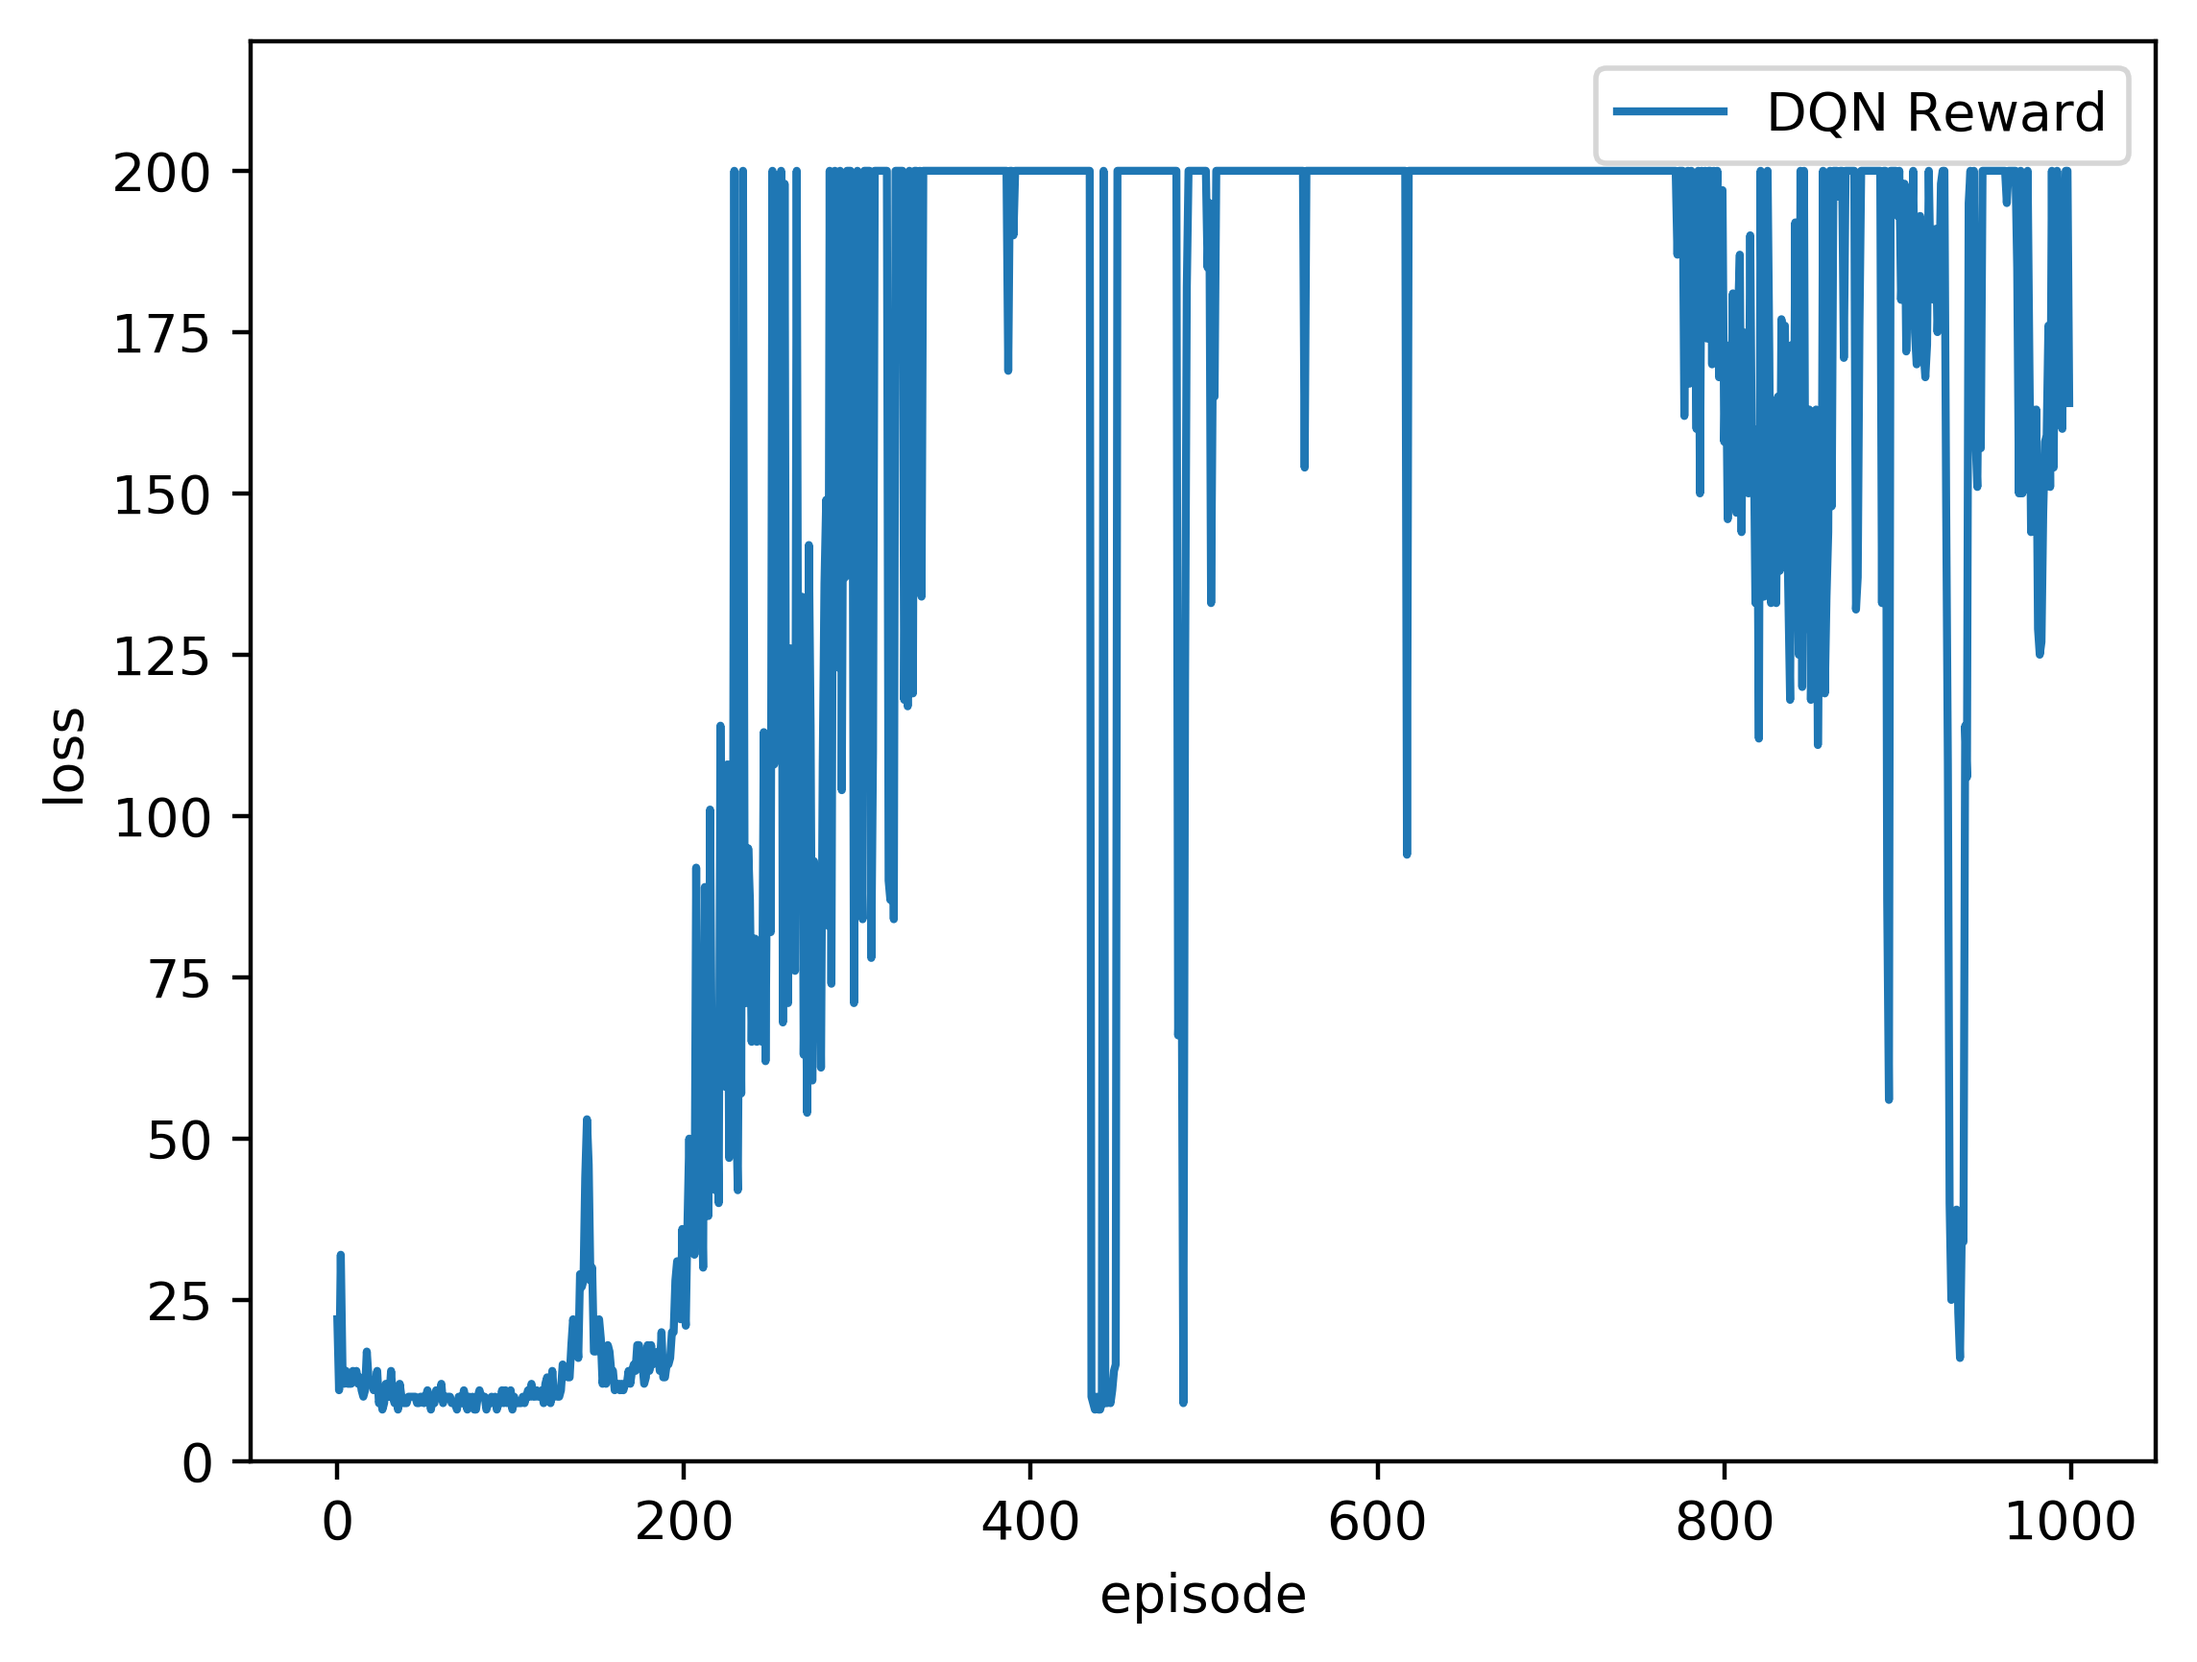
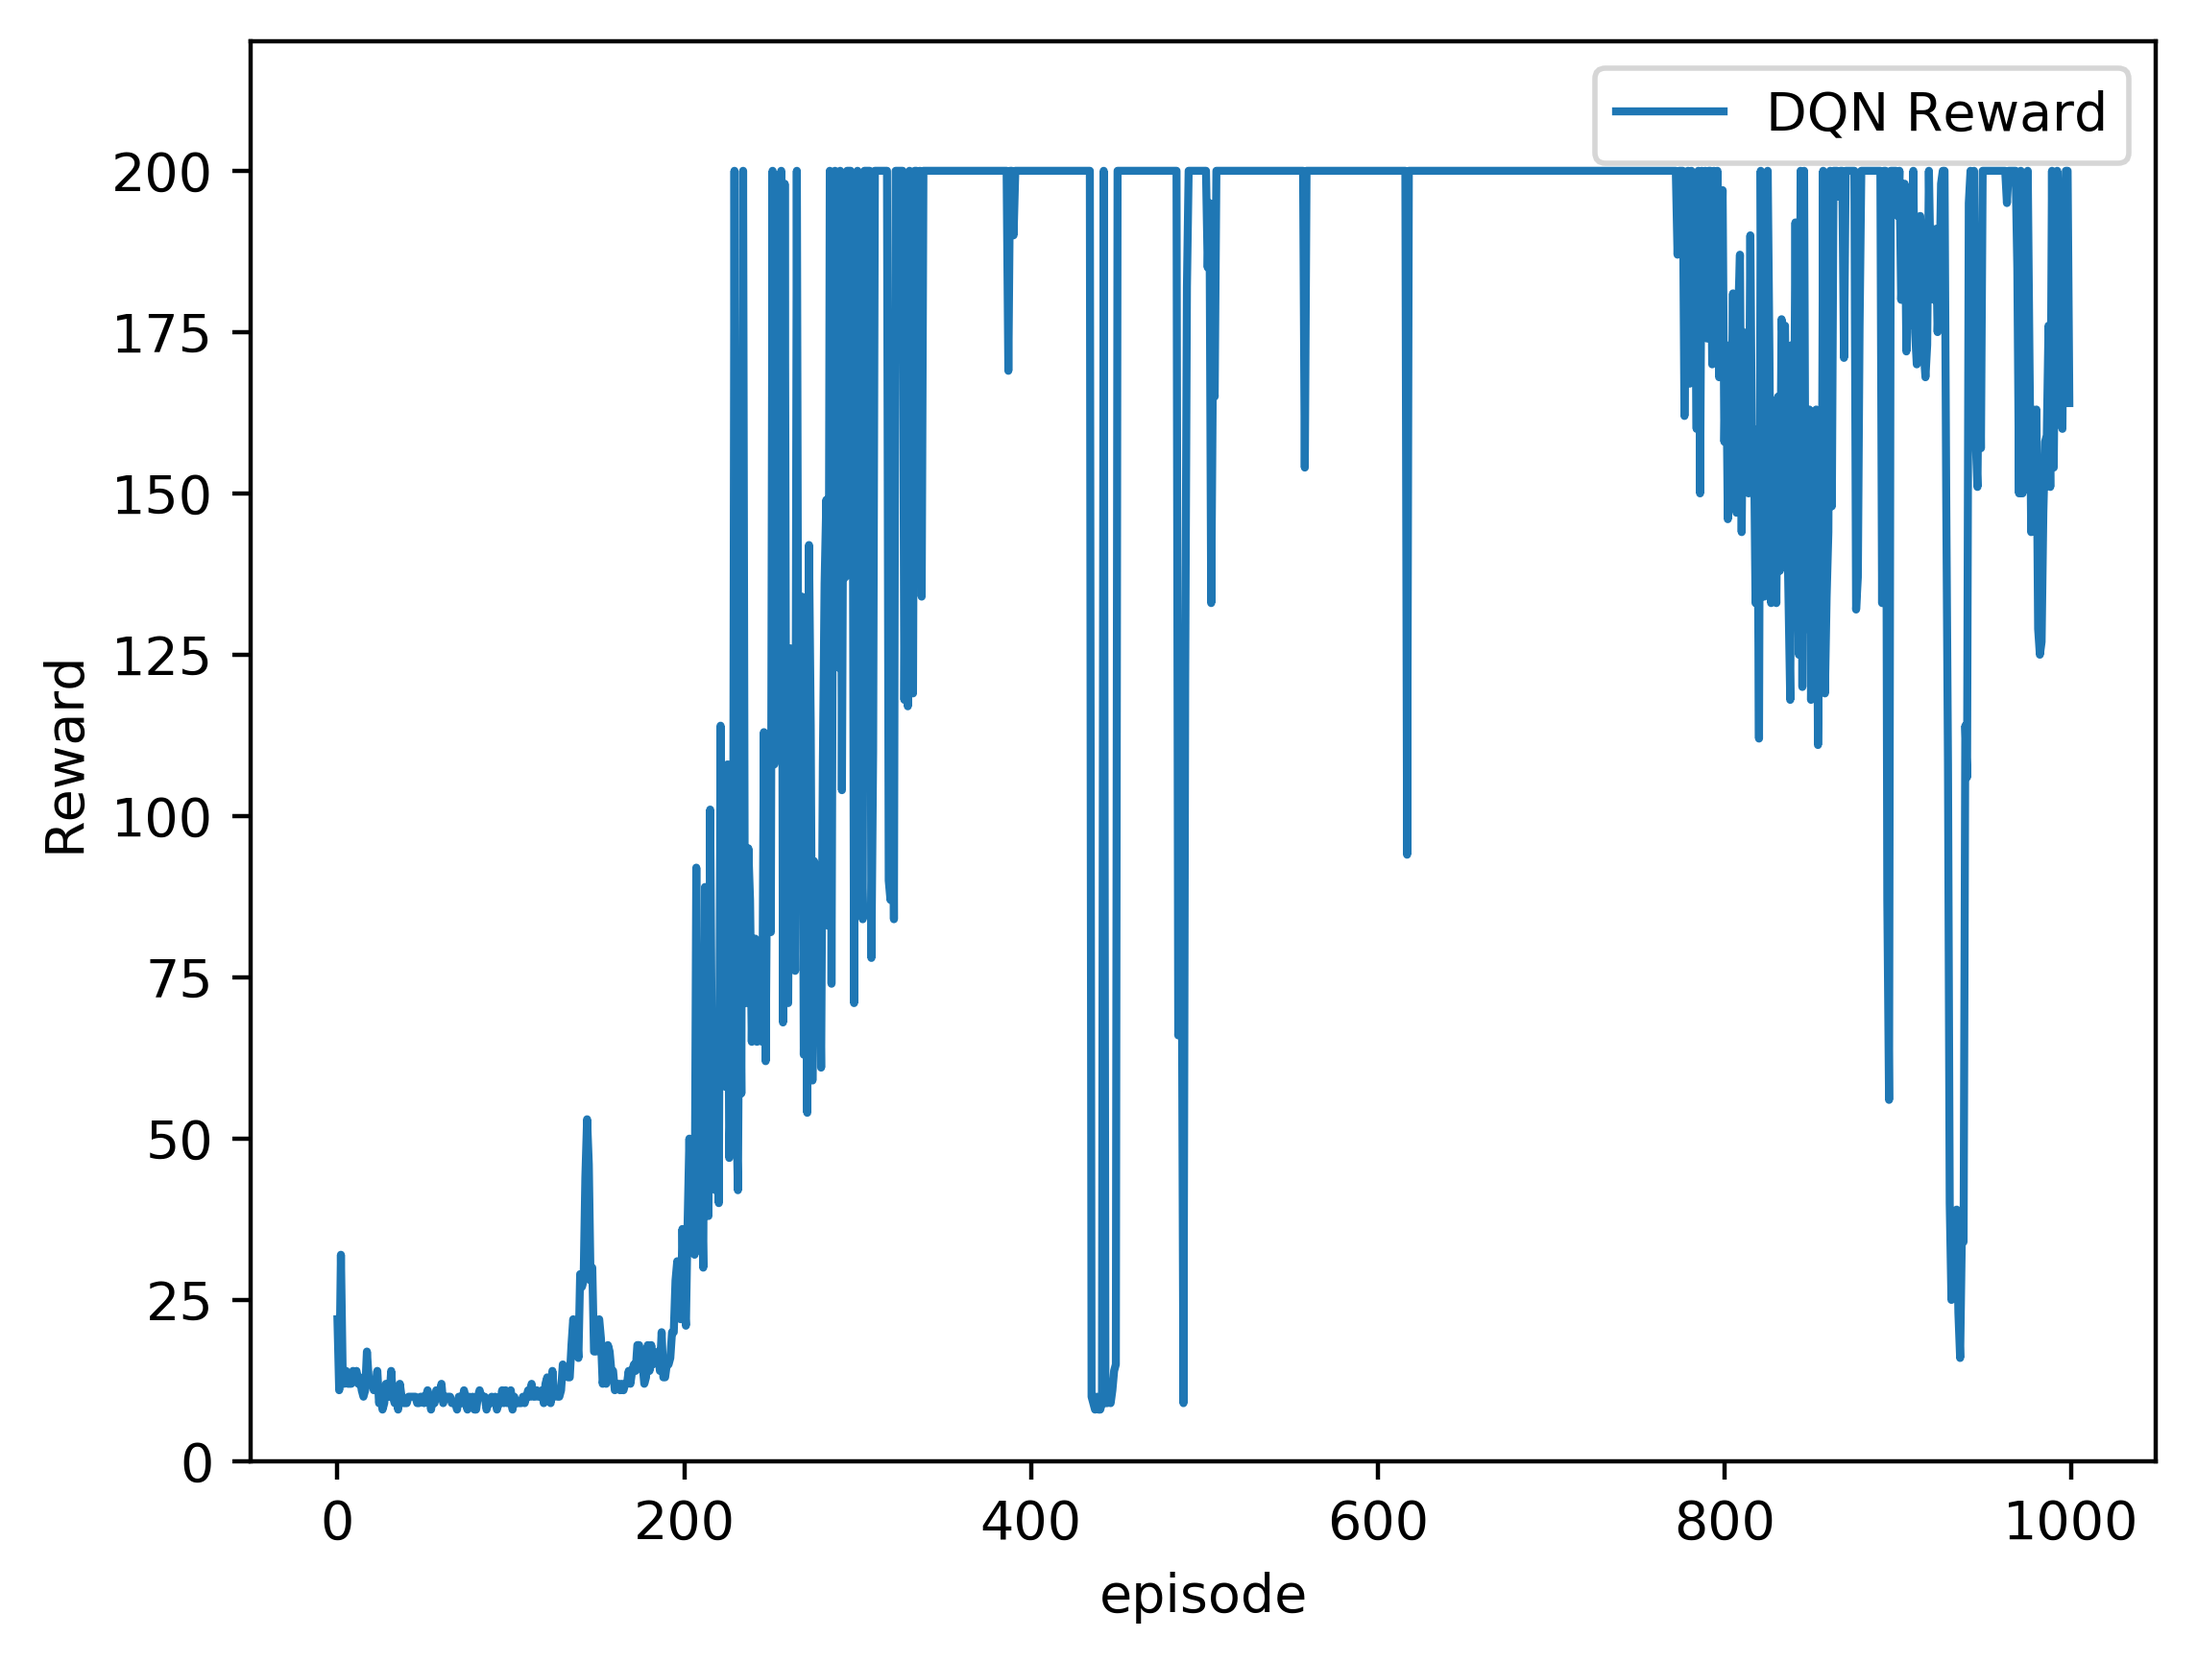
result image update

Changed region(s): [[0.0, 0.4055, 0.0931, 0.5303], [0.6206, 0.9047, 0.6517, 0.9359]]

diff --git a/visualizeCurve.py b/visualizeCurve.py
@@ -27,6 +27,6 @@ plt.legend()
 #plt.yscale('log')
 plt.ylim([0., 220])
 plt.xlabel("episode")
-plt.ylabel('loss')
+plt.ylabel('Reward')
 plt.savefig('DQN_eval_final_Reward.png', dpi=400, bbox_inches='tight')
 plt.close()
